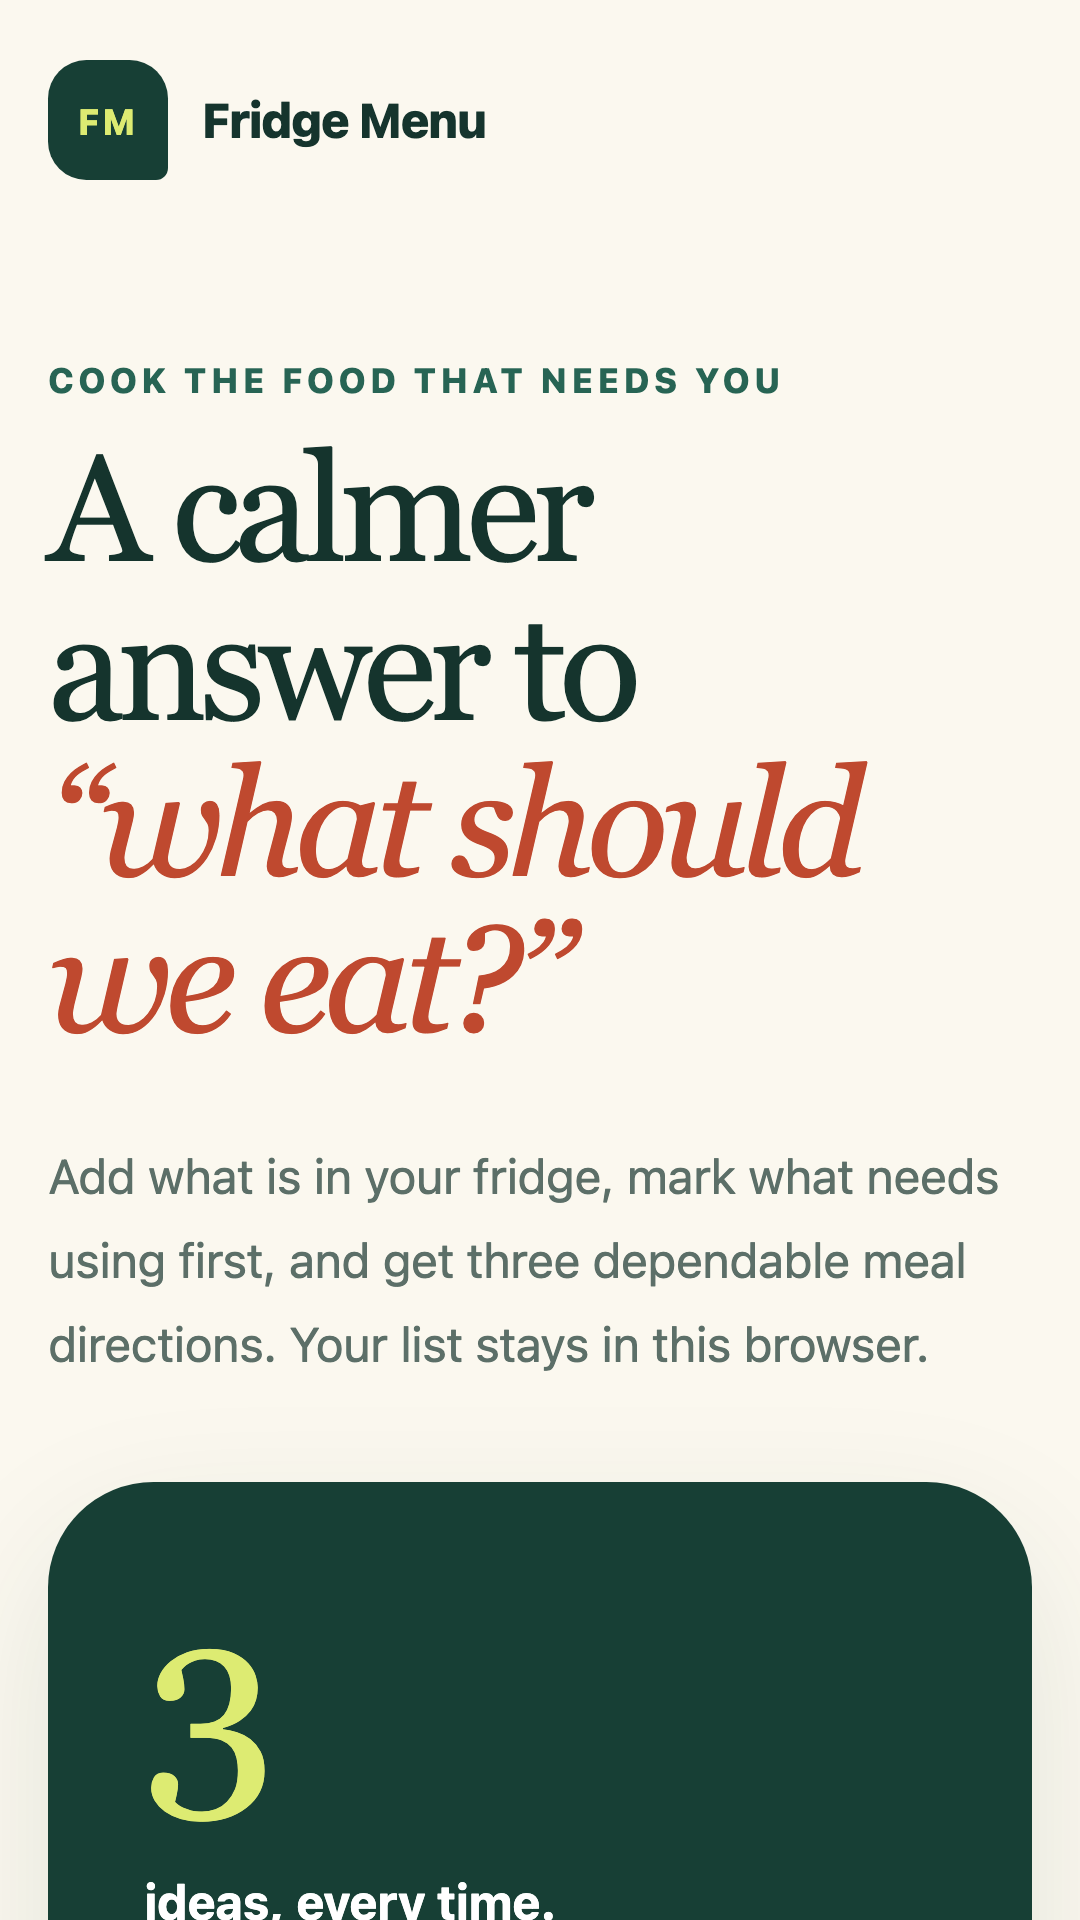
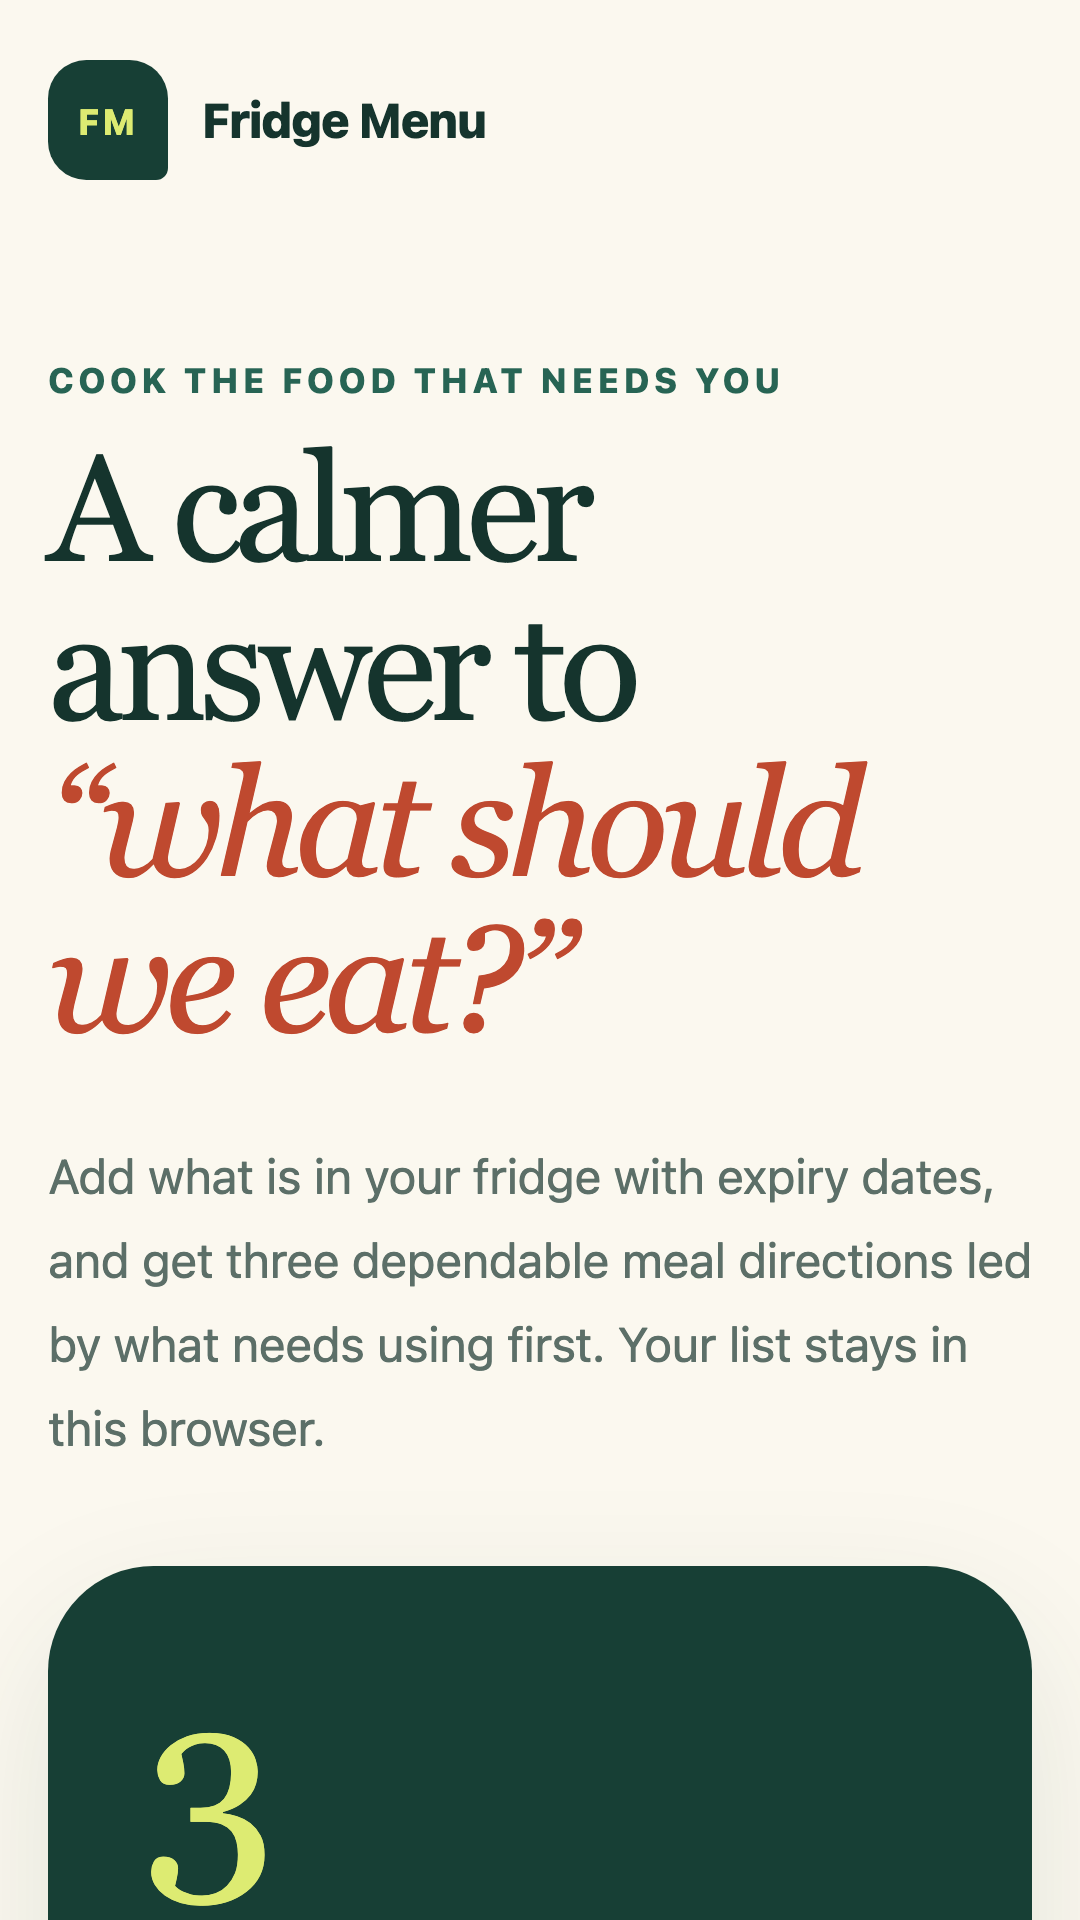
fix: enforce external signing key boundary

Changed region(s): [[0.0306, 0.5938, 0.9778, 0.875], [0.1222, 0.8438, 0.2444, 1.0], [0.275, 0.9688, 0.5194, 1.0]]

diff --git a/tests/app-contract.test.js b/tests/app-contract.test.js
@@ -522,6 +522,8 @@ test("release path is reproducible, signing-ready, privacy-preserving, and owner
   for (const variable of ["FRIDGE_MENU_KEYSTORE_PATH", "FRIDGE_MENU_KEYSTORE_PASSWORD", "FRIDGE_MENU_KEY_ALIAS", "FRIDGE_MENU_KEY_PASSWORD"]) {
     assert.match(androidBuild, new RegExp(variable));
   }
+  assert.match(androidBuild, /configuredKeystore\.toPath\(\)\.startsWith\(rootProject\.projectDir\.parentFile\.canonicalFile\.toPath\(\)\)/);
+  assert.match(androidBuild, /Release keystore must be outside the repository\./);
   assert.match(androidBuild, /applicationId\s*=\s*"com.learnershift.fridgemenu"/);
   assert.match(androidRootBuild, /com\.android\.application"\) version "8\.9\.1"/);
   assert.match(packaging, /FRIDGE_MENU_ANDROID_SDK/);
@@ -571,6 +573,7 @@ test("release path is reproducible, signing-ready, privacy-preserving, and owner
   assert.doesNotMatch(workflow, /secrets\./);
   assert.match(privacy, /no account, analytics, advertising SDK, tracking, or remote API/i);
   assert.match(listing, /Short description/);
+  assert.doesNotMatch(listing, /choose what needs using first/i);
   assert.match(dataSafety, /No data collected or shared/);
   assert.match(handoff, /Google Play Console/);
   for (const required of [

diff --git a/dist/index.html b/dist/index.html
@@ -26,7 +26,7 @@
       <div>
         <p class="eyebrow">Cook the food that needs you</p>
         <h1 id="hero-heading">A calmer answer to<br><em>“what should we eat?”</em></h1>
-        <p class="hero__copy">Add what is in your fridge, mark what needs using first, and get three dependable meal directions. Your list stays in this browser.</p>
+        <p class="hero__copy">Add what is in your fridge with expiry dates, and get three dependable meal directions led by what needs using first. Your list stays in this browser.</p>
       </div>
       <aside class="hero-card" aria-label="How it works">
         <span class="hero-card__number">3</span>

diff --git a/index.html b/index.html
@@ -26,7 +26,7 @@
       <div>
         <p class="eyebrow">Cook the food that needs you</p>
         <h1 id="hero-heading">A calmer answer to<br><em>“what should we eat?”</em></h1>
-        <p class="hero__copy">Add what is in your fridge, mark what needs using first, and get three dependable meal directions. Your list stays in this browser.</p>
+        <p class="hero__copy">Add what is in your fridge with expiry dates, and get three dependable meal directions led by what needs using first. Your list stays in this browser.</p>
       </div>
       <aside class="hero-card" aria-label="How it works">
         <span class="hero-card__number">3</span>

diff --git a/dist/service-worker.js b/dist/service-worker.js
@@ -1,4 +1,4 @@
-const CACHE_NAME = "fridge-menu-shell-dba20ae2c82d578d";
+const CACHE_NAME = "fridge-menu-shell-183f354db7311761";
 const APP_SHELL = Object.freeze([
   "./",
   "./index.html",

diff --git a/service-worker.js b/service-worker.js
@@ -1,4 +1,4 @@
-const CACHE_NAME = "fridge-menu-shell-dba20ae2c82d578d";
+const CACHE_NAME = "fridge-menu-shell-183f354db7311761";
 const APP_SHELL = Object.freeze([
   "./",
   "./index.html",

diff --git a/release/play-listing.md b/release/play-listing.md
@@ -8,7 +8,7 @@ Use what you have first with three simple, offline meal directions.
 
 Full description:
 
-Fridge Menu turns the ingredients already in your fridge into three calm, practical meal directions. Add three to eight ingredients, choose what needs using first, and get dependable ideas without random suggestions.
+Fridge Menu turns the ingredients already in your fridge into three calm, practical meal directions. Add three to eight ingredients with expiry dates, and get dependable ideas led by what needs using first without random suggestions.
 
 Your pantry stays on your device. Fridge Menu has no account, analytics, tracking, advertising SDK, or remote API. It works offline after installation and never asks you to share your ingredients.
 
